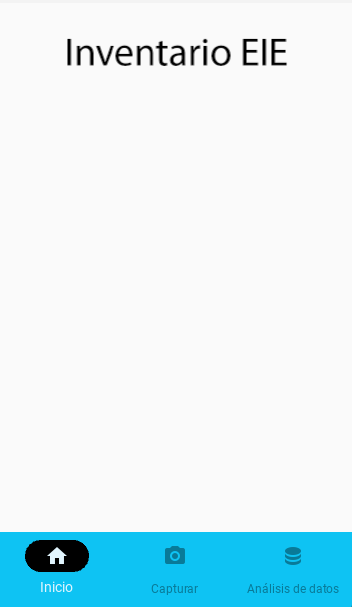
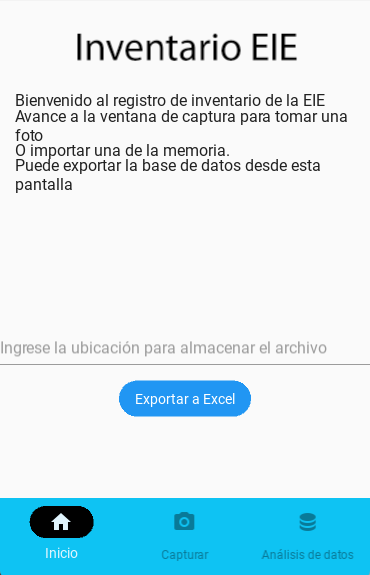
Push final
Trabajo escrito terminado y arreglados últimos detalles del programa

diff --git a/trabajo_escrito/contenido/3_desarrollo.tex b/trabajo_escrito/contenido/3_desarrollo.tex
@@ -3,25 +3,25 @@
 % --------------------
 \label{C:desarrollo}
 
-En la presente sección se desarrolló el diseño la aplicación y los componentes necesarios para que funcione de forma adecuada. Es necesario establecer que para poder diseñar la aplicación se distribuyó las funciones de la misma por medio de distintos componentes. Asegurando así que se tenga pruebas de que cada componente tiene un funcionamiento correcto por separado como en conjunto. En la figura (\ref{appdiagram}), se puede ver como se distribuyó el diseño de la aplicación.
-\begin{figure}[H]
+En la presente sección se desarrolla el diseño la aplicación y los componentes necesarios para que funcione de forma adecuada. Es necesario establecer que para poder diseñar la aplicación se distribuyen las funciones de la misma por medio de distintos componentes. Asegurando así que se tenga pruebas de que cada componente tiene un funcionamiento correcto por separado como en conjunto. En la figura (\ref{appdiagram}), se puede ver como se distribuyó el diseño de la aplicación.
+\begin{figure}[h!]
     \centering
     \includegraphics[width=0.7\textwidth]{imagenes/diseño/diagrama_del_programa.png}
     \caption{Diagrama del funcionamiento de la aplicación (creación propia)}
     \label{appdiagram}
 \end{figure}
 \par
-Se creó tres componentes principales para la aplicación, donde el principal sería el wrapper o la interfaz del usuario, la red neuronal y la base de datos. Estos se encuentran conectados entre sí por medio del wrapper, que no solamente permite las entradas y las salidas con los usuarios, sino que también corre las funciones para acceder a cada uno de los componentes.
+Se crea tres componentes principales para la aplicación, donde el principal sería el wrapper. Sus otros dos componentes son la base de datos, que servirá para almacenar todos los activos con sus respectivos parámetros y la red neuronal, que procesa el texto de las imágenes y entrega el número de placa encontrado en el mismo. Estos se encuentran conectados entre sí por medio del wrapper, que no solamente permite las entradas y las salidas con los usuarios, sino que también corre las funciones para acceder a cada uno de los componentes.
 
 \section{Red neuronal}
-Debido a la complejidad y cantidad de recursos que puede requerir crear una red neuronal completamente de cero, se optó por utilizar una red neuronal pre-fabricada, a la cual se le modificó diferentes parámetros para procesar específicamente imágenes y que realizaran un análisis de OCR. 
+Debido a la complejidad y cantidad de recursos que puede requerir crear una red neuronal completamente de cero, se optó por utilizar una basada en la red, a la cual se le modificó diferentes parámetros para procesar específicamente imágenes y que realizaran un análisis de OCR. 
 \par
 El servicio utilizado para este proyecto fue el de Nanonets, debido a que las redes neuronales que ofrecen permiten nativamente adaptarlas para el reconocimiento y procesamiento de caracteres. Específicamente se consideró el pre-procesamiento de las imágenes y el procesado como los más significativos a la hora de alterar las especificaciones buscadas dentro de lo que iba a analizar la red.
 \par
-Primeramente se escogió que el modelo de red más adecuado era el de OCR. Luego se modificó el tipo de preprocesado que reciben las imágenes una vez que son recibidas por el servidor. El primer parámetro a corregir es la normalización de la imagen, la cual sirve para cambiar la intensidad de los pixeles a uno adecuado. Luego la corrección de torcimiento (Skew correction), que en caso de que la imagen recibida esté torcida permita verla con un mejor ángulo. La reducción de ruido, que realiza un barrido para aclarar la imagen. Por último se tomó en cuenta la aplicación de escala de grises y binarización de la imágen para que resalte de forma correcta el texto de las placas.
+Primeramente se escogió un modelo sin plantilla, es decir su funcionalidad y parámetros se definen desde cero, por lo que se ajustó para que fuese especializada en OCR. Luego se modificó el tipo de preprocesado que reciben las imágenes una vez que son recibidas por el servidor, de la misma forma se incluye dentro de los ajustes de la red escogida. El primer parámetro a corregir es la normalización de la imagen, la cual sirve para cambiar la intensidad de los pixeles a uno adecuado. Luego la corrección de torcimiento (Skew correction), que en caso de que la imagen recibida esté torcida permita verla con un mejor ángulo. Se aplica una reducción de ruido, que realiza un barrido para aclarar la imagen. Por último se tomó en cuenta la aplicación de escala de grises y binarización de la imagen para que resalte de forma correcta el texto de las placas.
 \par
 Es necesario destacar que no fue necesaria la implementación de código para realizar ninguna de las funciones de pre-procesado ni tampoco para los parámetros del procesado de la red. Lo siguiente llevado a cabo fue la definición del tipo de elementos que debería buscar específicamente la red para devolver como respuesta a la salida. Para ello se pusieron parámetros que eliminasen todo tipo de texto y elementos que no correspondieran a un número y que solamente analizara una única línea, debido a que al ser OCR, podría buscar devolver un texto más grande del necesario. Todo esto es necesario debido a que las placas de la Universidad de Costa Rica (figura \ref{ejem_placa}), poseen no solamente el número de activo, sino que también el logo y nombre de la Universidad.
-\begin{figure}[H]
+\begin{figure}[h!]
     \centering
     \includegraphics[width=0.5\textwidth]{imagenes/diseño/ejem_placa.PNG}
     \caption{Placa de activo de la Universidad de Costa Rica (ejemplo)}
@@ -44,7 +44,7 @@ self.placa_actual = response_json["result"][0]['prediction'][0]['ocr_text']
 
 \section{Base de datos}
 La base de datos se diseñó pensando en que se debía tener un modelo intuitivo que fuese fácil de manipular, donde los datos pudiesen ser exportados de manera sencilla a algún formato conocido por los usuarios. Por ello se utilizó una base de datos relacional, que constará de únicamente una tabla, la cual está definida como la tabla \ref{table1}. 
-\begin{table}[H]
+\begin{table}[h!]
 \centering
 \resizebox{\columnwidth}{!}{\begin{tabular}{cccc}
 \hline
@@ -70,7 +70,7 @@ db = mysql.connector.connect(
 mycursor = db.cursor()
 \end{lstlisting}
 \par
-Esta sección de código realiza una conexión simple al servidor local de la base de datos, con los credenciales del usuario root para pdoer tener manejo completo de la misma. Dentro de los accesos realizados más adelante no es necesario utilizar una acceso root, puesto que no se estará modificando la tabla y su estructura, sino únicamente añadiendo y modificando datos dentro. Además crea un cursor, el cual es el encargado de realizar todas las operaciones para la creación de bases de datos, tablas y toda la inserción, eliminación y modificación de datos en general, es decir maneja cada una de las solicitudes a la BD. 
+Esta sección de código realiza una conexión simple al servidor local de la base de datos, con los credenciales del usuario root para poder tener manejo completo de la misma. Se definió la base de datos como local, debido a que la implementación no llevó a cabo una implementación en servidor externo para la realización del desarrollo sin embargo, a la hora de lanzar la aplicación para dispositivos móviles, la base de datos se migra y se establecen conexiones directamente con el servidor. Dentro de los accesos realizados más adelante no es necesario utilizar una acceso root, puesto que no se estará modificando la tabla y su estructura, sino únicamente añadiendo y modificando datos dentro. Además crea un cursor, el cual es el encargado de realizar todas las operaciones para la creación de bases de datos, tablas y toda la inserción, eliminación y modificación de datos en general, es decir maneja cada una de las solicitudes a la BD. 
 \begin{lstlisting}[language=Python,frame=single,caption= Script de python para la creación de una tabla en una base de datos (creación propia), inputencoding=latin1]
 mycursor.execute("CREATE TABLE Activos (placa int PRIMARY KEY, ubicacion TEXT(65535), tipo_de_activo TEXT(65535), descripcion TEXT(65535))")
 \end{lstlisting}
@@ -80,50 +80,65 @@ La anterior sección del script, únicamente creó la tabla nueva llamada \textb
 Todas y cada una de las funciones que gestionan los accesos y las escrituras a la base de datos se implementaron como funciones dentro del wrapper de la aplicación, ya que es necesario que el funcionamiento se de durante el uso de la aplicación. 
 
 
-
-
 \section{Wrapper de la aplicación}
- El wrapper de la aplicación tiene como funcionamiento crear una capa que permita la conexión de la base de datos y de la red neuronal con el usuario y entre sí. Se utilizó la librería KivyMD, las cual sirve para la creación de interfaces gráficas multiplataforma. Esto permite que el diseño sea utilizable tanto en la plataforma de desarrollo (donde se usó windows), cómo en la plataforma de distribución (android), ya que los elementos que contiene se adaptan a respuestas físicas (como la de un mouse) y a respuestas táctiles (como en dispositivos móviles).
+ El wrapper de la aplicación tiene como funcionamiento crear una capa que permita la conexión de la base de datos y de la red neuronal con el usuario y entre sí. Se utilizó la biblioteca KivyMD, las cual sirve para la creación de interfaces gráficas multiplataforma. Esto permite que el diseño sea utilizable tanto en la plataforma de desarrollo (donde se usó windows), cómo en la plataforma de distribución (android), ya que los elementos que contiene se adaptan a respuestas físicas (como la de un mouse) y a respuestas táctiles (como en dispositivos móviles).
  \par
- KivyMD es una derivación de la librería Kivy, pero que utiliza un diseño moderno (basado en el estilo gráfico de Android actual Material Design 3) para sus elementos. Se realizó de esta forma para que la experiencia de usuario fuese la mejor posible. 
+ KivyMD es una derivación de la biblioteca Kivy, pero que utiliza un diseño moderno (basado en el estilo gráfico de Android actual Material Design 3) para sus elementos. Se realizó de esta forma para que la experiencia de usuario fuese la mejor posible. 
 \par
- Inicialmente se construyó el esqueleto de la aplicación, el cual no contiene elementos en el, pero permite inicializar el funcionamiento. KivyMD utiliza programación orientada a objetos para definir a los esqueletos, por lo que se creó la clase \textbf{Inventario}. Esta clase consta de 4 métodos o funciones internas y un constructor. 
+ Inicialmente se construyó el esqueleto de la aplicación, el cual no contiene elementos en él, pero permite inicializar el funcionamiento. KivyMD utiliza programación orientada a objetos para definir a los esqueletos, por lo que se creó la clase \textbf{Inventario}. Esta clase consta de 8 métodos o funciones internas y un constructor, es posible ver la construcción en la figura \ref{skeleton}.
+ \begin{figure}[h!]
+    \centering
+    \includegraphics[width=0.7\textwidth]{imagenes/diseño/diagrama_esqueleto.png}
+    \caption{Diagrama de bloques del esqueleto de la aplicación}
+    \label{skeleton}
+\end{figure}
  \par
- El constructor se diseñó con diferentes atributos, los obligatorios establecidos por KivyMD, que son: la versión de Material Design que se utilizó (Material Desing 3) y el tema que utiliza la aplicación (esquema de colores). Luego se definió los atributos propios los cuales fueron: La captura actual (string con la dirección de la captura actual), placa actual (string con la placa que se escaneó más recientemente) y el atributo \textit{is registered} (booleano que determina si la placa que se escaneó se encuentra previamente almacenada en la base de datos). El objetivo principal de estas definiciones se basó en la captura de variables de interés que deriven de los métodos de la aplicación.
+ El constructor se diseñó con diferentes atributos, los obligatorios establecidos por KivyMD, que son: la versión de Material Design que se utilizó (Material Desing 3) y el tema que utiliza la aplicación (esquema de colores). Luego se definió los atributos propios los cuales fueron: La captura actual (string con la dirección de la captura actual), placa actual (string con la placa que se escaneó más recientemente), \textit{is registered} (booleano que determina si la placa que se escaneó se encuentra previamente almacenada en la base de datos) y por último file manager (permite importar el módulo de file manager de kivyMD para importar archivos directamente de la memoria). El objetivo principal de estas definiciones se basó en la captura de variables de interés que deriven de los métodos de la aplicación.
  \par
  Lo último contenido dentro del constructor, es la pantalla, que importa toda la definición de la interfaz gráfica para mostrarla al usuario. Se escribió las definiciones de la pantalla en la variable \textit{layouts} como un string en lenguaje declarativo de Kivy, que es una forma alternativa, intuitiva y mayormente documentada para el acomodo de los elementos gráficos de la aplicación. En la figura \ref{screen1} se muestra la pantalla principal de la aplicación.
-\begin{figure}[H]
+\begin{figure}[h!]
     \centering
     \includegraphics[width=0.35\textwidth]{imagenes/diseño/pantalla1.png}
     \caption{Pantalla principal de la aplicación}
     \label{screen1}
 \end{figure}
 \par
-La forma en la que el lenguaje de Kivy acomoda los elementos de la aplicación es jerárquica, por lo que inicialmente se debió seleccionar el tipo de pantalla deseada, esta usualmente determina como se ve la interfaz general de la aplicación. El nivel principal de la jerarquía que se implementó fue \textit{BottomNavigationLayout}, que contiene una barra inferior con botones para seleccionar la pantalla a la que se accede. Luego en nivel 2 se definió 3 pantallas: inicio, captura y análisis de datos. El nivel 3 siendo el último nivel contiene los elementos dentro de las 3 pantallas del nivel 2.
+La forma en la que el lenguaje declarativo de kivy acomoda los elementos de la aplicación es jerárquica, por lo que inicialmente se debió seleccionar el tipo de pantalla deseada, esta usualmente determina como se ve la interfaz general de la aplicación. El nivel principal de la jerarquía que se implementó fue \textit{BottomNavigationLayout}, que contiene una barra inferior con botones para seleccionar la pantalla a la que se accede. Luego en nivel 2 se definió 3 pantallas: inicio, captura y análisis de datos. El nivel 3 siendo el último nivel contiene los elementos dentro de las 3 pantallas del nivel 2.
 \par
-La pantalla de inicio o pantalla principal, solamente despliega el logo de la aplicación, que se creó a partir de la tipografía de la EIE y un mensaje de bienvenida para los usuarios. 
+La pantalla de inicio o pantalla principal, despliega el logo de la aplicación, que se creó a partir de la tipografía de la EIE, un mensaje de bienvenida para los usuarios, un cuadro de texto para que los usuarios indiquen una dirección en la memoria (en este caso de la computadora, debido a que la implementación en Android quedó fuera del diseño para éste proyecto) y un botón que activa la función \verb|import_to_excel(self)|.
 \par
-\begin{figure}[H]
+La función \verb|import_to_excel(self)|, implementa la conexión a la base de datos definida anteriormente y por medio del cursor importa todos los datos de la tabla de activos. Una vez importados los datos, con la ayuda de la biblioteca pandas se convierte a un marco de datos, que puede ser exportado a Excel por una función de pandas, la exporrtación se realiza en la dirección especificada por el usuario en un archivo llamado \textbf{activos.xlsx}. 
+\begin{figure}[h!]
     \centering
     \includegraphics[width=0.35\textwidth]{imagenes/diseño/pantalla2.png}
     \caption{Pantalla de captura de la aplicación}
     \label{screen2}
 \end{figure}
 \par
-La pantalla de captura, que se mostró en la figura \ref{screen2}, contiene 2 elementos: Una imagen en tiempo real de la cámara principal del dispositivo que corre la aplicación y un botón de captura. El botón de captura al ser presionado activa la función \verb|capture(self)|, que almacena en la ubicación actual la imagen de la cámara, asignando un nombre con único y aleatorio, guarda la dirección completa del archivo en \verb|self.captura_actual| y activa la función de \verb|ocr_scan(self)|. En caso de que la imagen se procesó correctamente muestra un mensaje en pantalla para que el usuario avance al análisis de datos y contrariamente un mensaje de error para que el usuario vuelva a tomar la foto.
+La pantalla de captura, que se mostró en la figura \ref{screen2}, contiene 3 elementos: Una imagen en tiempo real de la cámara principal del dispositivo que corre la aplicación, un botón de captura y un botón de carga de archivos. El botón de captura al ser presionado activa la función \verb|capture(self)|, que almacena en la ubicación actual la imagen de la cámara, asignando un nombre con único y aleatorio, guarda la dirección completa del archivo en \verb|self.captura_actual| y activa la función de \verb|ocr_scan(self)|. 
+\par
+El botón de carga al ser presionado activa la función \verb|open_manager(self)|, que abre un explorador de archivos (implementado por KivyMD) en el disco duro principal del dispositivo, como se muestra en la figura \ref{xplorer} y una vez se selecciona el archivo deseado, se asigna la ruta a \verb|self.captura_actual| por medio de la función \verb|select_path(self, path: str)| y el algoritmo procede de la misma forma que con el botón de captura. Internamente cuando se selecciona el archivo o se cierra el explorador la función \verb|exit_manager(self, *args)| finaliza la instancia que lo trajo a pantalla.
+\par
+\begin{figure}[h!]
+    \centering
+    \includegraphics[width=0.35\textwidth]{imagenes/diseño/explorador.png}
+    \caption{Explorador de archivos}
+    \label{xplorer}
+\end{figure}
+En caso de que la imagen se procesó correctamente en \verb|ocr_scan(self)|, se muestra un mensaje en pantalla para que el usuario avance al análisis de datos y contrariamente un mensaje de error para que el usuario vuelva a tomar o importar la foto.
 \par
 La función \verb|ocr_scan(self)| implementa tanto el Listing 3.1 cómo el Listing 3.2, si el API de Nanonets devuelve una respuesta con la placa procesada en formato de string retorna un \verb|True|, de lo contrario un \verb|False|, que sirve para activar los mensajes finales en la función de captura.
 \par
-\begin{figure}[H]
+\begin{figure}[h!]
     \centering
-    \includegraphics[width=0.35\textwidth]{imagenes/diseño/pantalla3.png}
+    \includegraphics[width=0.30\textwidth]{imagenes/diseño/pantalla3.png}
     \caption{Pantalla de análisis de datos de la aplicación}
     \label{screen3}
 \end{figure}
 Por último la pantalla de análisis de datos, mostrada en la figura \ref{screen3}, inicialmente al ser presionada activa la función \verb|rev_placa(self)| que se diseñó para verificar la existencia de la placa escaneada dentro de la base de datos. La función inicialmente conecta con el servidor, crea un cursor para ejecutar solicitudes para luego importar todos los datos de la BD. Antes de buscar la placa actual entre todos los datos registrados, pone el valor de \verb|self.is_registered| en falso y si la función logra encontrarla dentro dde la DB, la convierte en verdadero. Cuando \verb|self.is_registered| se encuentra en verdadero, despliega un mensaje en pantalla avisando al usuario de la existencia previa y de la posibilidad de modificar los valores directamente en los campos de texto. Si \verb|self.is_registered| está en falso, se sustituye únicamente el valor de la placa y se despliega un aviso para que el usuario proceda a llenar los datos del activo.
 \par
 Cuando el usuario decide que ya modificó o agregó los datos del registro, únicamente debe tocar el botón de envío, que activa la función \verb|registrar_placa(self)|. Inicialmente la función conecta con el servidor y crea un cursor, para de forma seguida analizar \verb|self.is_registered|, debido a que los procesos de un registro nuevo y la modificación de un registro son distintos. Cuando el atributo es verdadero se utilizó el siguiente código:
-\newpage
+
 \begin{lstlisting}[language=Python,frame=single,caption= Modificación de registro previamente existente (creación propia), inputencoding=latin1]
 mycursor.execute("UPDATE Activos SET ubicacion = %s, tipo_de_activo = %s, descripcion = %s WHERE placa = %s", (self.root.ids.ubicacion.text, self.root.ids.active_type.text, self.root.ids.descrip.text, self.placa_actual))
             db.commit()
@@ -131,6 +146,7 @@ mycursor.execute("UPDATE Activos SET ubicacion = %s, tipo_de_activo = %s, descri
 \end{lstlisting}
 \par
 Los parámetros dentro del \verb|execute|, corresponden a los strings contenidos en las cajas de texto de la pantalla de análisis de datos. Cuando no se encuentra el valor registrado en la BD, el código que se usó fue el siguiente:
+
 \begin{lstlisting}[language=Python,frame=single,caption= Registro nuevo de activo (creación propia), inputencoding=latin1]
 mycursor.execute("INSERT INTO Activos (placa, ubicacion, tipo_de_activo, descripcion) VALUES (%s, %s, %s, %s)", (self.placa_actual, self.root.ids.ubicacion.text, self.root.ids.active_type.text, self.root.ids.descrip.text))
             db.commit()

diff --git a/trabajo_escrito/contenido/2_marco_teorico.tex b/trabajo_escrito/contenido/2_marco_teorico.tex
@@ -4,7 +4,7 @@
 \label{C:antecedentes}
 Durante el presente capítulo se desarrollará un repaso sobre los principales conceptos relacionados al proyecto, con el fin de poder consolidar una base teórica esencial para entender el mismo.
 \section{Redes Neuronales}
-\begin{figure}[H]
+\begin{figure}[h!]
     \centering
     \includegraphics[width=0.5\textwidth]{imagenes/marco teorico/modelo_red.png}
     \caption{Modelo de una red neuronal \cite{nallasamy}}
@@ -31,11 +31,32 @@ El programador deberá dar a los datos de entrada provistos una salida emparejad
 \subsubsection{Entrenamiento no supervisado}
 En el caso del entrenamiento no supervisado, no se le provee a la red un set de datos de salida deseados, por lo que no hay comparación ni cálculo del error cometido a la hora de procesar los datos. La forma de ajuste de los pesos de cada entrada se da por medio de una comparación interna de las salidas producidas, para que formen un conjunto de datos consistente \cite{olabe_2008}. 
 \subsection{Creación de una red neuronal}
-Las redes neuronales pueden ser creadas o aplicadas de diferentes formas. La más compleja siendo la creación directa de la red por medio de programación haciendo uso de diferentes librerias como pueden ser: TensorFlow, Microsoft Cognitive Toolkit, PyTorch, Keras, Theano, entre otras. 
+Las redes neuronales pueden ser creadas o aplicadas de diferentes formas. La más compleja siendo la creación directa de la red por medio de programación haciendo uso de diferentes bibliotecas como pueden ser: TensorFlow, Microsoft Cognitive Toolkit, PyTorch, Keras, Theano, entre otras. 
 \par
-El proceso de creación de una red conlleva no solamente el tiempo para poder implementarla por medio de la libreria, sino que también el tiempo de entrenamiento para poder finalmente utilizarla. Es importante hacer notar que usualmente el poder computacional necesario para llevar acabo esto es bastante significativo, por lo que no es siempre conveniente.
+El proceso de creación de una red conlleva no solamente el tiempo para poder implementarla por medio de la biblioteca, sino que también el tiempo de entrenamiento para poder finalmente utilizarla. Es importante hacer notar que usualmente el poder computacional necesario para llevar acabo esto es bastante significativo, por lo que no es siempre conveniente.
 \par
 La otra forma de creación de una red neuronal, está dada por medio del uso de servicios de redes neuronales que están basadas en la nube. Usualmente son provistas por terceros y permiten modificar diferentes aspectos del modelo dependiendo de la aplicación que se quiera utilizar. Es necesario llevar acabo el ajuste de la red, así como el proceso de entrenamiento para que se pueda utilizar. Algunos de los provedores de este tipo de redes más conocidos son: Nanonets, Edge Impulse, Rossum, DarwinAI y muchas otras más.
+\subsection{Nanonets}
+Nanonets es un servicio web de redes neuronales que permite crear una para diferentes aplicaciones. El servicio presenta la facilidad de implementar con plantillas o desde cero la red. Las plantillas presentes son: extractor de tablas de Excel, analizador de facturas, escaneo de documentos de identidad o la creación de una propia desde cero, como se puede ver en la figura \ref{nanonets1}.
+\begin{figure}[h!]
+    \centering
+    \includegraphics[width=0.6\textwidth]{imagenes/marco teorico/nanonets_create.png}
+    \caption{Interfaz de creación de una red neuronal en Nanonets}
+    \label{nanonets1}
+\end{figure}
+\par
+El servicio tiene modalidad gratuita y de pago. La gratuita permite procesar 100 datos enviados a la API al mes, una cantidad limitada de datos a extraer y 2 entrenamientos para la red (sin límite de datos de entrada). La versión de pago permite capturar tablas completas, hasta 20 datos capturados por procesado, acceso a soporte 24 horas al día y hasta 5000 procesamientos al mes, con un costo total de 499 dólares.
+\par
+Para poder utilizar el servicio únicamente es necesario registrarse con un correo electrónico que permita validar al usuario. Para poder utilizar la red, pasado el entrenamiento se permite el envío de archivos por medio de subida directa a la interfaz web, correo electrónico a la red neuronal, API para lenguajes de programación (Python, Golang, NodeJS, Javascript, C\#, Java y Shell) o importarlos directamente una carpeta de drive designada únicamente para la red. La interfaz principal donde se tienen el historial de archivos procesados se puede ver en la figura \ref{nanonets2}.
+\begin{figure}[h!]
+    \centering
+    \includegraphics[width=0.6\textwidth]{imagenes/marco teorico/nanonets2.png}
+    \caption{Página principal de Nanonets}
+    \label{nanonets2}
+\end{figure}
+
+
+
 
 \section{OCR}
 \subsection{Generalidades}
@@ -46,9 +67,9 @@ El OCR es usado por muchas aplicaciones, de las cuales se incluye la transformac
 Los sistemas que implementan OCR, se componen de tres partes principales: Una cámara, software de procesamiento de OCR y una interfaz de salida. El reconocimiento de los caracteres usualmente está procesado por inteligencia artificial (usualmente una red neuronal) que conforme procesa datos nuevos aprende a reconocerlos de mejor manera \cite{Shah2009}. La idea de implementar OCR en los sistemas es evitar el error humano, aumentar la capacidad y tiempo de procesamiento además de permitir un mejor rendimiento a la hora de leer y escribir a archivos. 
 
 \subsection{Implementación}
-La implementación del OCR por medio de software se logra con diferentes librerias que combinan la visión por computador y la inteligencia artificial para el procesamiento de las imágenes. En trabajos como los vistos en \cite{nallasamy} y \cite{Shah2009} es posible apreciar como se creó un algoritmo que procese las imágenes a partir de una red neuronal. El algoritmo también debe contemplar el pre-procesamiento de las imagenes para que sean más fácilmente leídas por la red que las procesará después.
+La implementación del OCR por medio de software se logra con diferentes bibliotecas que combinan la visión por computador y la inteligencia artificial para el procesamiento de las imágenes. En trabajos como los vistos en \cite{nallasamy} y \cite{Shah2009} es posible apreciar como se creó un algoritmo que procese las imágenes a partir de una red neuronal. El algoritmo también debe contemplar el pre-procesamiento de las imagenes para que sean más fácilmente leídas por la red que las procesará después.
 \par
-Hay múltiples librerias para la implementación de OCR para diferentes lenguajes de programación, inclusive Tesseract, el cual es una librería de redes neuronales, incluye funciones que permiten la implementación de OCR.
+Hay múltiples bibliotecas para la implementación de OCR para diferentes lenguajes de programación, inclusive Tesseract, el cual es una librería de redes neuronales, incluye funciones que permiten la implementación de OCR.
 
 \section{Python}
 Python es un lenguaje de programación interpretado, es decir un programa intermediario entre la computadora y el usuario (llamado interprete) lee el código y lo ejecuta línea por línea. Es un lenguaje de alto nivel, que al ser creado se pensó especialmente para desarrollo rápido, sencillo, pero aún así poderoso funcional \cite{van1995python}.
@@ -72,9 +93,9 @@ print("Hola Mundo")
 Es posible notar de los códigos anteriores que la diferencia entre la cantidad de lineas de código en Java es muy superior a la de Python, permitiendo escribir códigos más compactos y más sencillos de leer también. Esto ha hecho que Python sea un lenguaje de programación bastante popular a nivel no-comercial, permitiendo también que se expandan los proyectos que apoyan la creación de librerías para desarrollo en él.
 
 
-\subsection{Librerias}
+\subsection{Bibliotecas}
 \par
-Las librerias son un complemento fundamental de la programación en Python, ya que permiten importar a un código funciones previamente escritas que realizan algún algoritmo requerido a la hora de programar \cite{van1995python}.
+Las bibliotecas son un complemento fundamental de la programación en Python, ya que permiten importar a un código funciones previamente escritas que realizan algún algoritmo requerido a la hora de programar \cite{van1995python}.
 \par
 Con ellas es posible crear códigos para diferentes áreas de aplicación, como por ejemplo el análisis de datos, inteligencia artificial, desarrollo web, ciencias de datos, big data, machine learning e inclusive desarrollo de juegos. La versatilidad que proveen las librerías en conjunto con la facilidad de programación en el lenguaje Python, hacen de la experiencia de desarrollo amigable para cualquier nivel de experiencia que se tenga.
 
@@ -84,7 +105,7 @@ Una base de datos es una forma de organizar información o datos con algún tipo
 Para poder controlar las bases de datos, es necesario un gestor que permita hacer un manejo correcto de las mismas. Para ello existen los sistemas de gestión de bases de datos (SGBD). Su principal función es permitir que se hagan consultas no predefinidas y complejas, es decir que la combinación de datos que se quiere extraer de una base de datos no esté predefinida en el programa que la gestiona para que sea una búsqueda válida. Además gestiona las conexiones que se ralizan a la base, por lo que debe permitir y la conexión de varios usuarios a ella \cite{camps_paré_2005}.
 \par
 Las consultas a la base de datos se realizan por medio de lenguaje escrito (sintaxis) equivalente a un lenguaje de programación, pero específico del tipo de base de datos y el sistema debe interpretar el tipo de acción que se desea realizar. En la figura \ref{BDflux} se puede apreciar el flujo de las consultas a una base de datos. 
-\begin{figure}[H]
+\begin{figure}[h!]
     \centering
     \includegraphics[width=0.4\textwidth]{imagenes/marco teorico/flujo_BD.png}
     \caption{Flujo de una consulta a una base de datos \cite{camps_paré_2005}.}
@@ -103,7 +124,7 @@ Con lo mencionado anteriormente es posible comprender el proceso de solicitudes 
 \subsection{Modelos de bases de datos}
 \par
 Las bases de datos no se presentan únicamente en un tipo de modelo, sino que a través de los años se han implementado diferentes formas de almacenar los datos dentro de una base de datos y estas se les llaman \textit{modelos de bases de datos}. Se explicará tres de los modelos que se presentan en bases de datos por su relevancia histórica o por su uso popular, siendo estas: jerárquicas, red y relacional, como se observa en la figura \ref{BDmodels}.
-\begin{figure}[H]
+\begin{figure}[h!]
     \centering
     \includegraphics[width=0.5\textwidth]{imagenes/diseño/modelodb.png}
     \caption{Modelos de bases de datos \cite{camps_paré_2005}.}
@@ -122,3 +143,4 @@ La estructura de los modelos de red se asemejan a los jerárquicos, con la difer
 \par
 El tercer modelo de la figura \ref{BDmodels} es el relacional, el cual se diferencia mucho de los otros dos modelos presentados anteriormente, esto debido a que está basado en el concepto matemático de relación. Su principal elemento es la tabla, la cual es la causa del nombre que se le asigna. La tabla consta de filas y columnas, donde cada columna usualmente presente un atributo y cada fila es un registro único diferente del resto (aunque no necesariamente con diferentes columnas, a excepción de la característica principal, que es diferenciante). Es una forma intuitiva y sencilla de almacenar datos, ya que a nivel lógico tiene mucho sentido almacenarlos de esta forma, además permite la facilidad de tener más de una tabla donde puede o no alguna de sus filas tener relación con alguna fila y/o columna de otra \cite{camps_paré_2005}.
 
+\newpage

diff --git a/trabajo_escrito/contenido/1_introduccion.tex b/trabajo_escrito/contenido/1_introduccion.tex
@@ -9,11 +9,11 @@ Una de las herramientas que actualmente se utiliza para poder automatizar muchas
 En el presente trabajo, se busca realizar una aplicación directa de una red neuronal, que logre recibir imágenes tomadas de las placas de los activos, para extraer el número en ellas y registrarla en conjunto con otros datos que los describan. Además se pretende encapsular la aplicación por medio de una aplicación para dispositivos Android, que permita el fácil uso del escáner de placas.
 
 \section{Alcances}
-Para poder tener un desarrollo debido del proyecto, primeramente se investigó sobre las redes neuronales: como aplicarlas, como crearlas y como entrenarlas. Además es importante ver que servicios web brindan una implementación propia de una red neuronal, para poder simplificar el desarrollo y además evitar falta de recursos computacionales avanzados para un buen funcionamiento de la aplicación. 
+Para poder tener un desarrollo debido del proyecto, primeramente se investigó sobre las redes neuronales: como aplicarlas, como crearlas y como entrenarlas. Por los requerimientos técnicos que conllevan implementar una red neuronal local, se investigó sobre servicios que implementen redes neuronal en la nube y permitan realizar modificaciones en la misma para diferentes aplicaciones requeridas, en este caso se buscó que fuese posible realizar reconocimiento óptico de caracteres con ellas. 
 \par
-Por otro lado se estudió cómo desarrollar una aplicación móvil sencilla para Android, por medio del lenguaje de programación python. Así mismo, es necesario estudiar los módulos de visión por computador para poder hacer uso de las cámaras de los móviles, módulos de conexión a servidores y por último como almacenar en bases de datos desde las aplicaciones para poder guardar los datos de los activos.
+Se estudió también la metodología para el desarrollo de una aplicación móvil sencilla para Android, por medio del lenguaje de programación Python. Así mismo, se estudió las bibliotecas de visión por computador para poder hacer uso de las cámaras de los móviles, módulos de conexión a servidores y por último como almacenar en bases de datos por medio de código para los datos de los activos.
 \par
-Finalmente con todos estos conceptos estudiados e interiorizados se podrá entrenar a la red neuronal, mientras que se desarrolla una interfaz gráfica para Android, que tome las capturas, envíe a la red para su lectura y permita almacenar los datos en un servidor remoto.
+Finalmente con todos estos conceptos estudiados se entrenó la red neuronal, al mismo tiempo que se desarrolló una interfaz gráfica para Android, que tome las capturas, envíe a la red para su lectura y permita almacenar los datos en un servidor MySQL.
 
 \section{Justificación}
 El trabajo de inventariado puede conllevar mucho esfuerzo y tiempo que, cualquier tipo de facilitación sería de gran ayuda. 
@@ -53,7 +53,7 @@ Con el fin de poder desarrollar el presente proyecto se seguirán los siguientes
 \section{Cronograma}
 \begin{figure}[H]
 \centering
-\includegraphics[width=\textwidth]{imagenes/Cronograma.PNG} 
+\includegraphics[width=\textwidth]{imagenes/Cronograma.png} 
 \caption{Cronograma del proyecto eléctrico}
 \label{F:crono}
 \end{figure}

diff --git a/main.py b/main.py
@@ -160,7 +160,7 @@ class Inventario(MDApp):
     #Función que realiza el escaneo de la cámara
     def ocr_scan(self):
         try:
-            url = 'https://app.nanonets.com/api/v2/OCR/Model/34353217-1d3f-4511-b86f-e24e842e66e8/LabelFile/?async=false'
+            url = 'https://app.nanonets.com/api/v2/OCR/Model/4e42ab1f-7985-4ee1-aab5-00e1c1e62f9a/LabelFile/?async=false'
             data = {'file': open(self.captura_actual, 'rb')}
 
             response = requests.post(url, auth=requests.auth.HTTPBasicAuth('0DeaHQHCf7qAs9n7mFAGmF9gHd6IVMA9', ''), files=data)
@@ -175,6 +175,10 @@ class Inventario(MDApp):
             return False
 
     def rev_placa(self):
+        self.root.ids.num_placa.text = self.placa_actual
+        self.root.ids.ubicacion.text = ''
+        self.root.ids.active_type.text = ''
+        self.root.ids.descrip.text = ''
         db = mysql.connector.connect(
                 host='localhost',
                 user='root',
